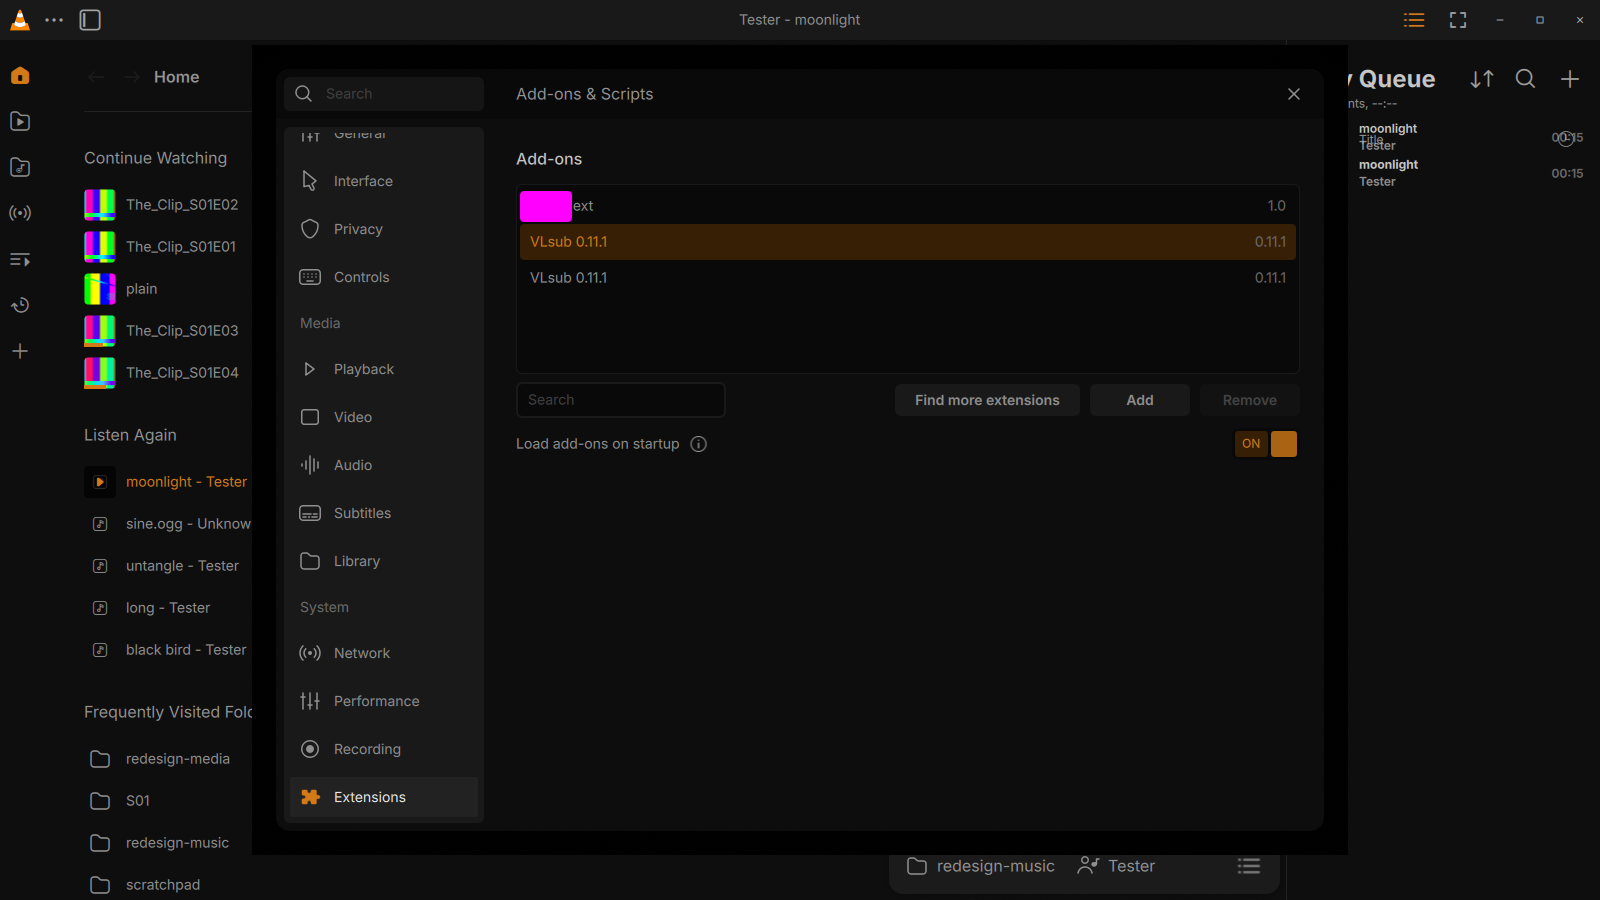
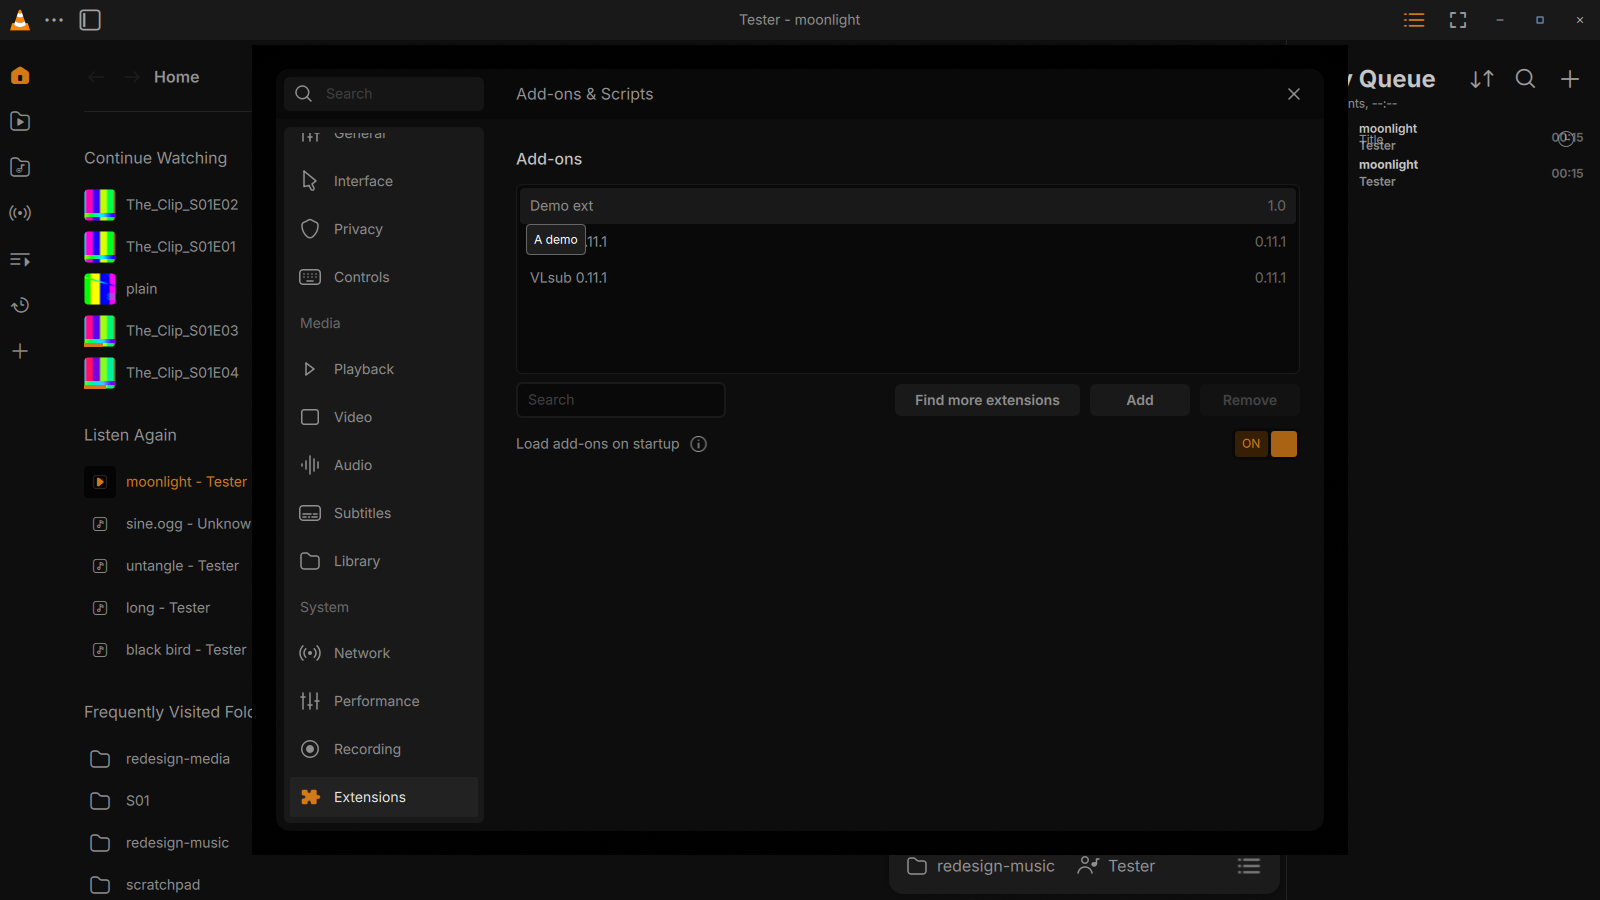
qt: settings extensions: palette for tooltips, Add never deletes the source, QUrl picker, GTK accent default

Changed region(s): [[0.3125, 0.1867, 0.8125, 0.3111]]

diff --git a/modules/gui/qt/dialogs/settings/qml/rows/ExtensionsRows.qml b/modules/gui/qt/dialogs/settings/qml/rows/ExtensionsRows.qml
@@ -58,6 +58,7 @@ Column {
 
         // one tooltip for the list, not one per delegate: a delegate is not yet under the row when its tooltip takes its palette
         Widgets.ToolTipExt {
+            colorContext.palette: VLCStyle.palette
             x: VLCStyle.dp(10, VLCStyle.scale)
             y: root.hoverY + VLCStyle.dp(4, VLCStyle.scale)
             z: 1
@@ -209,9 +210,9 @@ Column {
                 width: VLCStyle.dp(100, VLCStyle.scale)
                 text: qsTr("Add")
                 onClicked: {
-                    const p = SettingsBridge.pickLuaFile()
-                    if (p.length)
-                        SettingsBridge.addExtension("file://" + p)
+                    const u = SettingsBridge.pickLuaFile()
+                    if (u.toString().length)
+                        SettingsBridge.addExtension(u)
                 }
             }
 

diff --git a/modules/gui/qt/dialogs/settings/qml/SettingsRowDelegate.qml b/modules/gui/qt/dialogs/settings/qml/SettingsRowDelegate.qml
@@ -230,6 +230,7 @@ FocusScope {
             HoverHandler { id: infoHover }
 
             Widgets.ToolTipExt {
+                colorContext.palette: VLCStyle.palette
                 visible: infoHover.hovered || info.activeFocus
                 text: root._help
                 width: Math.min(implicitWidth, VLCStyle.dp(360, VLCStyle.scale))

diff --git a/modules/gui/qt/dialogs/settings/settings_bridge.cpp b/modules/gui/qt/dialogs/settings/settings_bridge.cpp
@@ -231,17 +231,33 @@ QString SettingsBridge::extensionFile(int row)
     return m->data(m->index(row, 0), m->roleNames().key("filename")).toString();
 }
 
-bool SettingsBridge::addExtension(const QUrl& luaFile)
+bool SettingsBridge::installExtensionFile(const QString& srcPath, const QString& dir)
 {
-    const QString dir = userExtensionsDir();
-    const QFileInfo src(luaFile.toLocalFile());
+    const QFileInfo src(srcPath);
     if (dir.isEmpty() || !src.isFile() || src.suffix().toLower() != "lua")
         return false;
     if (!QDir().mkpath(dir))
         return false;
     const QString dst = dir + "/" + src.fileName();
-    QFile::remove(dst);   // copying over an older version of the same script
-    if (!QFile::copy(src.absoluteFilePath(), dst))
+    // already the installed file (or a link to it): nothing to copy, and it must not be touched
+    if (QFileInfo(dst).exists() && QFileInfo(dst).canonicalFilePath() == src.canonicalFilePath())
+        return true;
+    // copy beside it, then rename over the old version: a failed copy keeps the old file
+    const QString tmp = dst + ".tmp";
+    QFile::remove(tmp);
+    if (!QFile::copy(src.absoluteFilePath(), tmp))
+        return false;
+    QFile::remove(dst);
+    if (!QFile::rename(tmp, dst)) {
+        QFile::remove(tmp);
+        return false;
+    }
+    return true;
+}
+
+bool SettingsBridge::addExtension(const QUrl& luaFile)
+{
+    if (!installExtensionFile(luaFile.toLocalFile(), userExtensionsDir()))
         return false;
     reloadExtensions();
     return true;
@@ -262,9 +278,10 @@ bool SettingsBridge::removeExtension(int row)
     return true;
 }
 
-QString SettingsBridge::pickLuaFile() const
+QUrl SettingsBridge::pickLuaFile() const
 {
-    return QFileDialog::getOpenFileName(nullptr, qtr("Select File"), QDir::homePath(), qtr("Lua scripts (*.lua)"));
+    const QString p = QFileDialog::getOpenFileName(nullptr, qtr("Select File"), QDir::homePath(), qtr("Lua scripts (*.lua)"));
+    return p.isEmpty() ? QUrl() : QUrl::fromLocalFile(p);
 }
 
 QVariantList SettingsBridge::languages() const

diff --git a/modules/gui/qt/tests/test_settings_bridge.cpp b/modules/gui/qt/tests/test_settings_bridge.cpp
@@ -16,6 +16,8 @@
  * Foundation, Inc., 51 Franklin Street, Fifth Floor, Boston MA 02110-1301, USA.
  *****************************************************************************/
 #include <QTest>
+#include <QTemporaryDir>
+#include <QFile>
 #include <QSignalSpy>
 
 #include "vlc_stub_modules.hpp"
@@ -85,6 +87,23 @@ private slots:
         QVERIFY(!m_bridge->canRemoveExtension(0));   // no list in this env
         QVERIFY(!m_bridge->removeExtension(0));
         QVERIFY(!m_bridge->addExtension(QUrl::fromLocalFile("/no/such/file.lua")));
+    }
+
+    void installExtension() {
+        QTemporaryDir src, dir;
+        QVERIFY(src.isValid() && dir.isValid());
+        const QString a = src.filePath("a#b%c.lua");
+        QFile f(a); QVERIFY(f.open(QIODevice::WriteOnly)); f.write("v1"); f.close();
+        const QString dst = dir.filePath("a#b%c.lua");
+        QVERIFY(SettingsBridge::installExtensionFile(a, dir.path()));
+        QVERIFY(QFile::exists(dst));
+        // picking the installed file itself (or a link to it) keeps it
+        QVERIFY(SettingsBridge::installExtensionFile(dst, dir.path()));
+        QCOMPARE(QFile(dst).size(), qint64(2));
+        QVERIFY(QFile::link(dst, src.filePath("link.lua")));
+        QVERIFY(SettingsBridge::installExtensionFile(src.filePath("link.lua"), dir.path()));
+        QVERIFY(QFile::exists(dst));
+        QVERIFY(!SettingsBridge::installExtensionFile(src.filePath("none.lua"), dir.path()));
     }
 
     void noChoices() { QVERIFY(m_bridge->choices("long-jump-size").isEmpty()); }

diff --git a/modules/gui/qt/dialogs/settings/settings_bridge.hpp b/modules/gui/qt/dialogs/settings/settings_bridge.hpp
@@ -68,7 +68,9 @@ public:
     Q_INVOKABLE bool addExtension(const QUrl& luaFile);
     Q_INVOKABLE bool canRemoveExtension(int row);
     Q_INVOKABLE bool removeExtension(int row);
-    Q_INVOKABLE QString pickLuaFile() const;
+    Q_INVOKABLE QUrl pickLuaFile() const;   // empty when cancelled
+    // copies a .lua file into `dir` (replacing an older copy; the file already there is left alone)
+    static bool installExtensionFile(const QString& srcPath, const QString& dir);
 
     Q_INVOKABLE QVariantList languages() const;
     Q_INVOKABLE QStringList fontFamilies() const;

diff --git a/modules/gui/qt/style/gtkthemeprovider/gtkthemeprovider.cpp b/modules/gui/qt/style/gtkthemeprovider/gtkthemeprovider.cpp
@@ -203,7 +203,7 @@ static int updatePalette(vlc_qt_theme_provider_t* obj)
 
         if (!strcmp(accentColor, "default"))
         {
-            qcAccent = QColor( isDark ? "#FF8800" : "#FF610A" );
+            qcAccent = QColor( isDark ? "#D37918" : "#FF610A" );
         }
 #if QT_VERSION >= QT_VERSION_CHECK(6, 6, 0)
         else if (!strcmp(accentColor, "system"))
